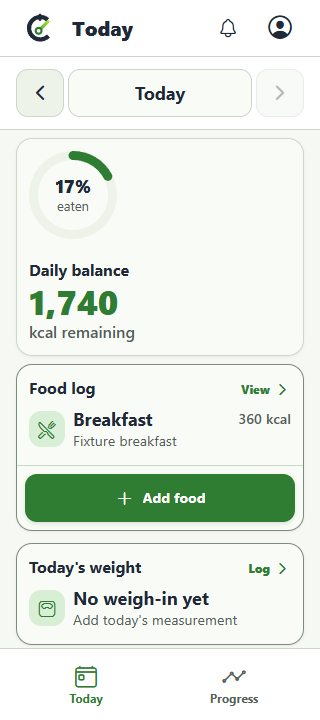
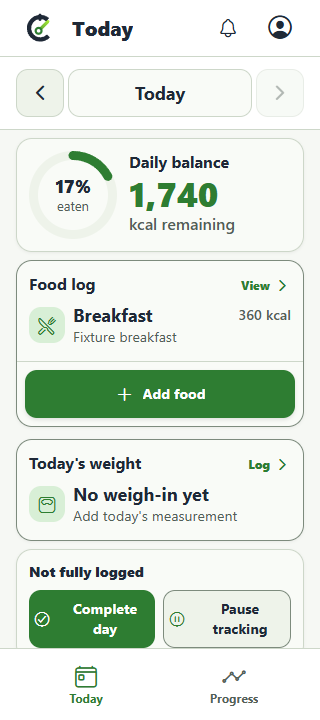
Keep Daily Balance horizontal at 320px

diff --git a/mobile/src/components/CalorieBalanceCard.tsx b/mobile/src/components/CalorieBalanceCard.tsx
@@ -19,6 +19,10 @@ const GAUGE_STROKE = 9;
 // Today gives the actionable percentage more prominence while keeping the card compact.
 const COMPACT_GAUGE_SIZE = 88;
 const COMPACT_GAUGE_STROKE = 9;
+// Keep the supported 320px phone layout horizontal; narrower or large-text layouts stack safely.
+const HERO_STACK_BREAKPOINT = 320;
+// Reflow before accessibility-sized copy competes with the fixed gauge width.
+const LARGE_TEXT_STACK_FONT_SCALE = 1.6;
 
 function getBalanceTone(remaining: number | null): 'primary' | 'danger' {
     if (remaining === null) return 'primary';
@@ -51,7 +55,7 @@ export const CalorieBalanceCard: React.FC<CalorieBalanceCardProps> = ({
     const balanceValue = remaining === null ? '-' : formatNumber(Math.abs(remaining), 0);
     const balanceLabel = remaining === null ? unavailableLabel : isOver ? 'kcal over target' : 'kcal remaining';
     const balanceSummary = remaining === null ? balanceLabel : `${balanceValue} ${balanceLabel}`;
-    const stackHero = width < 360 || fontScale >= 1.6;
+    const stackHero = width < HERO_STACK_BREAKPOINT || fontScale >= LARGE_TEXT_STACK_FONT_SCALE;
 
     return (
         <AppCard
@@ -63,7 +67,10 @@ export const CalorieBalanceCard: React.FC<CalorieBalanceCardProps> = ({
                 : `Daily balance. ${balanceSummary}. ${formatNumber(totalCalories, 0)} calories logged.`}
             style={style}
         >
-            <View style={[styles.hero, compact && styles.heroCompact, stackHero && styles.heroStacked]}>
+            <View
+                testID="calorie-balance-hero"
+                style={[styles.hero, compact && styles.heroCompact, stackHero && styles.heroStacked]}
+            >
                 {progressValue !== null && (
                     <CalorieGauge value={progressValue} tone={tone} compact={compact} colors={colors} styles={styles} />
                 )}
@@ -157,7 +164,7 @@ function createStyles(colors: AppThemeColors) {
     },
     heroCompact: {
         alignItems: 'flex-start',
-        gap: spacing.lg
+        gap: spacing.md
     },
     heroStacked: {
         flexDirection: 'column',

diff --git a/mobile/src/components/CalorieBalanceCard.test.tsx b/mobile/src/components/CalorieBalanceCard.test.tsx
@@ -1,9 +1,18 @@
-import { render } from '@testing-library/react-native';
-import { processColor } from 'react-native';
+import { act, render } from '@testing-library/react-native';
+import { Dimensions, processColor, StyleSheet } from 'react-native';
 import { themes } from '../theme';
 import { CalorieBalanceCard } from './CalorieBalanceCard';
 
+function setWindowDimensions(width: number, fontScale: number) {
+    const dimensions = { width, height: 768, scale: 1, fontScale };
+    act(() => {
+        Dimensions.set({ window: dimensions, screen: dimensions });
+    });
+}
+
 describe('CalorieBalanceCard', () => {
+    afterEach(() => setWindowDimensions(1_024, 1));
+
     it('keeps the card focused on percentage eaten and calories remaining', () => {
         const screen = render(
             <CalorieBalanceCard totalCalories={1456} targetCalories={1820} compact />
@@ -59,5 +68,19 @@ describe('CalorieBalanceCard', () => {
         expect(screen.getByText('Plan needs review')).toBeTruthy();
         expect(screen.getByText('1,456 kcal logged')).toBeTruthy();
         expect(screen.queryByTestId('calorie-gauge-progress', { includeHiddenElements: true })).toBeNull();
+    });
+
+    it.each([
+        ['keeps the compact hero horizontal at the supported phone width', 320, 1, 'row'],
+        ['stacks below the supported phone width', 319, 1, 'column'],
+        ['stacks at the supported phone width for large text', 320, 1.6, 'column']
+    ])('%s', (_label, width, fontScale, flexDirection) => {
+        setWindowDimensions(width, fontScale);
+        const screen = render(
+            <CalorieBalanceCard totalCalories={360} targetCalories={2100} compact />
+        );
+
+        expect(StyleSheet.flatten(screen.getByTestId('calorie-balance-hero').props.style))
+            .toEqual(expect.objectContaining({ flexDirection }));
     });
 });

diff --git a/e2e/expo-web/launch-11-today-control-center.spec.ts b/e2e/expo-web/launch-11-today-control-center.spec.ts
@@ -258,6 +258,34 @@ test('Today is legible, keyboard-operable, and unclipped at every configured vie
   if (testInfo.project.name === 'compact-phone-chrome') {
     await page.setViewportSize({ width: 320, height: 568 });
     await expectUnderTargetDashboard(page);
+
+    const balanceCard = page.getByLabel(/^Daily balance\./);
+    const balanceGauge = balanceCard.locator('svg').first();
+    const balanceHeading = balanceCard.getByRole('heading', { name: 'Daily balance', exact: true });
+    const balanceValue = page.getByTestId('calorie-balance-value');
+    const [gaugeBox, headingBox, valueBox] = await Promise.all([
+      balanceGauge.boundingBox(),
+      balanceHeading.boundingBox(),
+      balanceValue.boundingBox(),
+    ]);
+    if (!gaugeBox || !headingBox || !valueBox) {
+      throw new Error('Daily balance hero geometry was not measurable at 320px.');
+    }
+    const gaugeRight = gaugeBox.x + gaugeBox.width;
+    const gaugeBottom = gaugeBox.y + gaugeBox.height;
+    const copyTop = Math.min(headingBox.y, valueBox.y);
+    const copyBottom = Math.max(headingBox.y + headingBox.height, valueBox.y + valueBox.height);
+    expect(Math.min(gaugeBottom, copyBottom) - Math.max(gaugeBox.y, copyTop)).toBeGreaterThan(0);
+    expect(Math.min(headingBox.x, valueBox.x)).toBeGreaterThanOrEqual(gaugeRight);
+
+    const valueLineTops = await balanceValue.evaluate((element) => {
+      const range = document.createRange();
+      range.selectNodeContents(element);
+      return [...new Set(Array.from(range.getClientRects())
+        .filter((rect) => rect.width > 0 && rect.height > 0)
+        .map((rect) => Math.round(rect.top)))];
+    });
+    expect(valueLineTops).toHaveLength(1);
     await expectNoHorizontalOverflow(page);
     await captureEvidence(page, testInfo);
 
